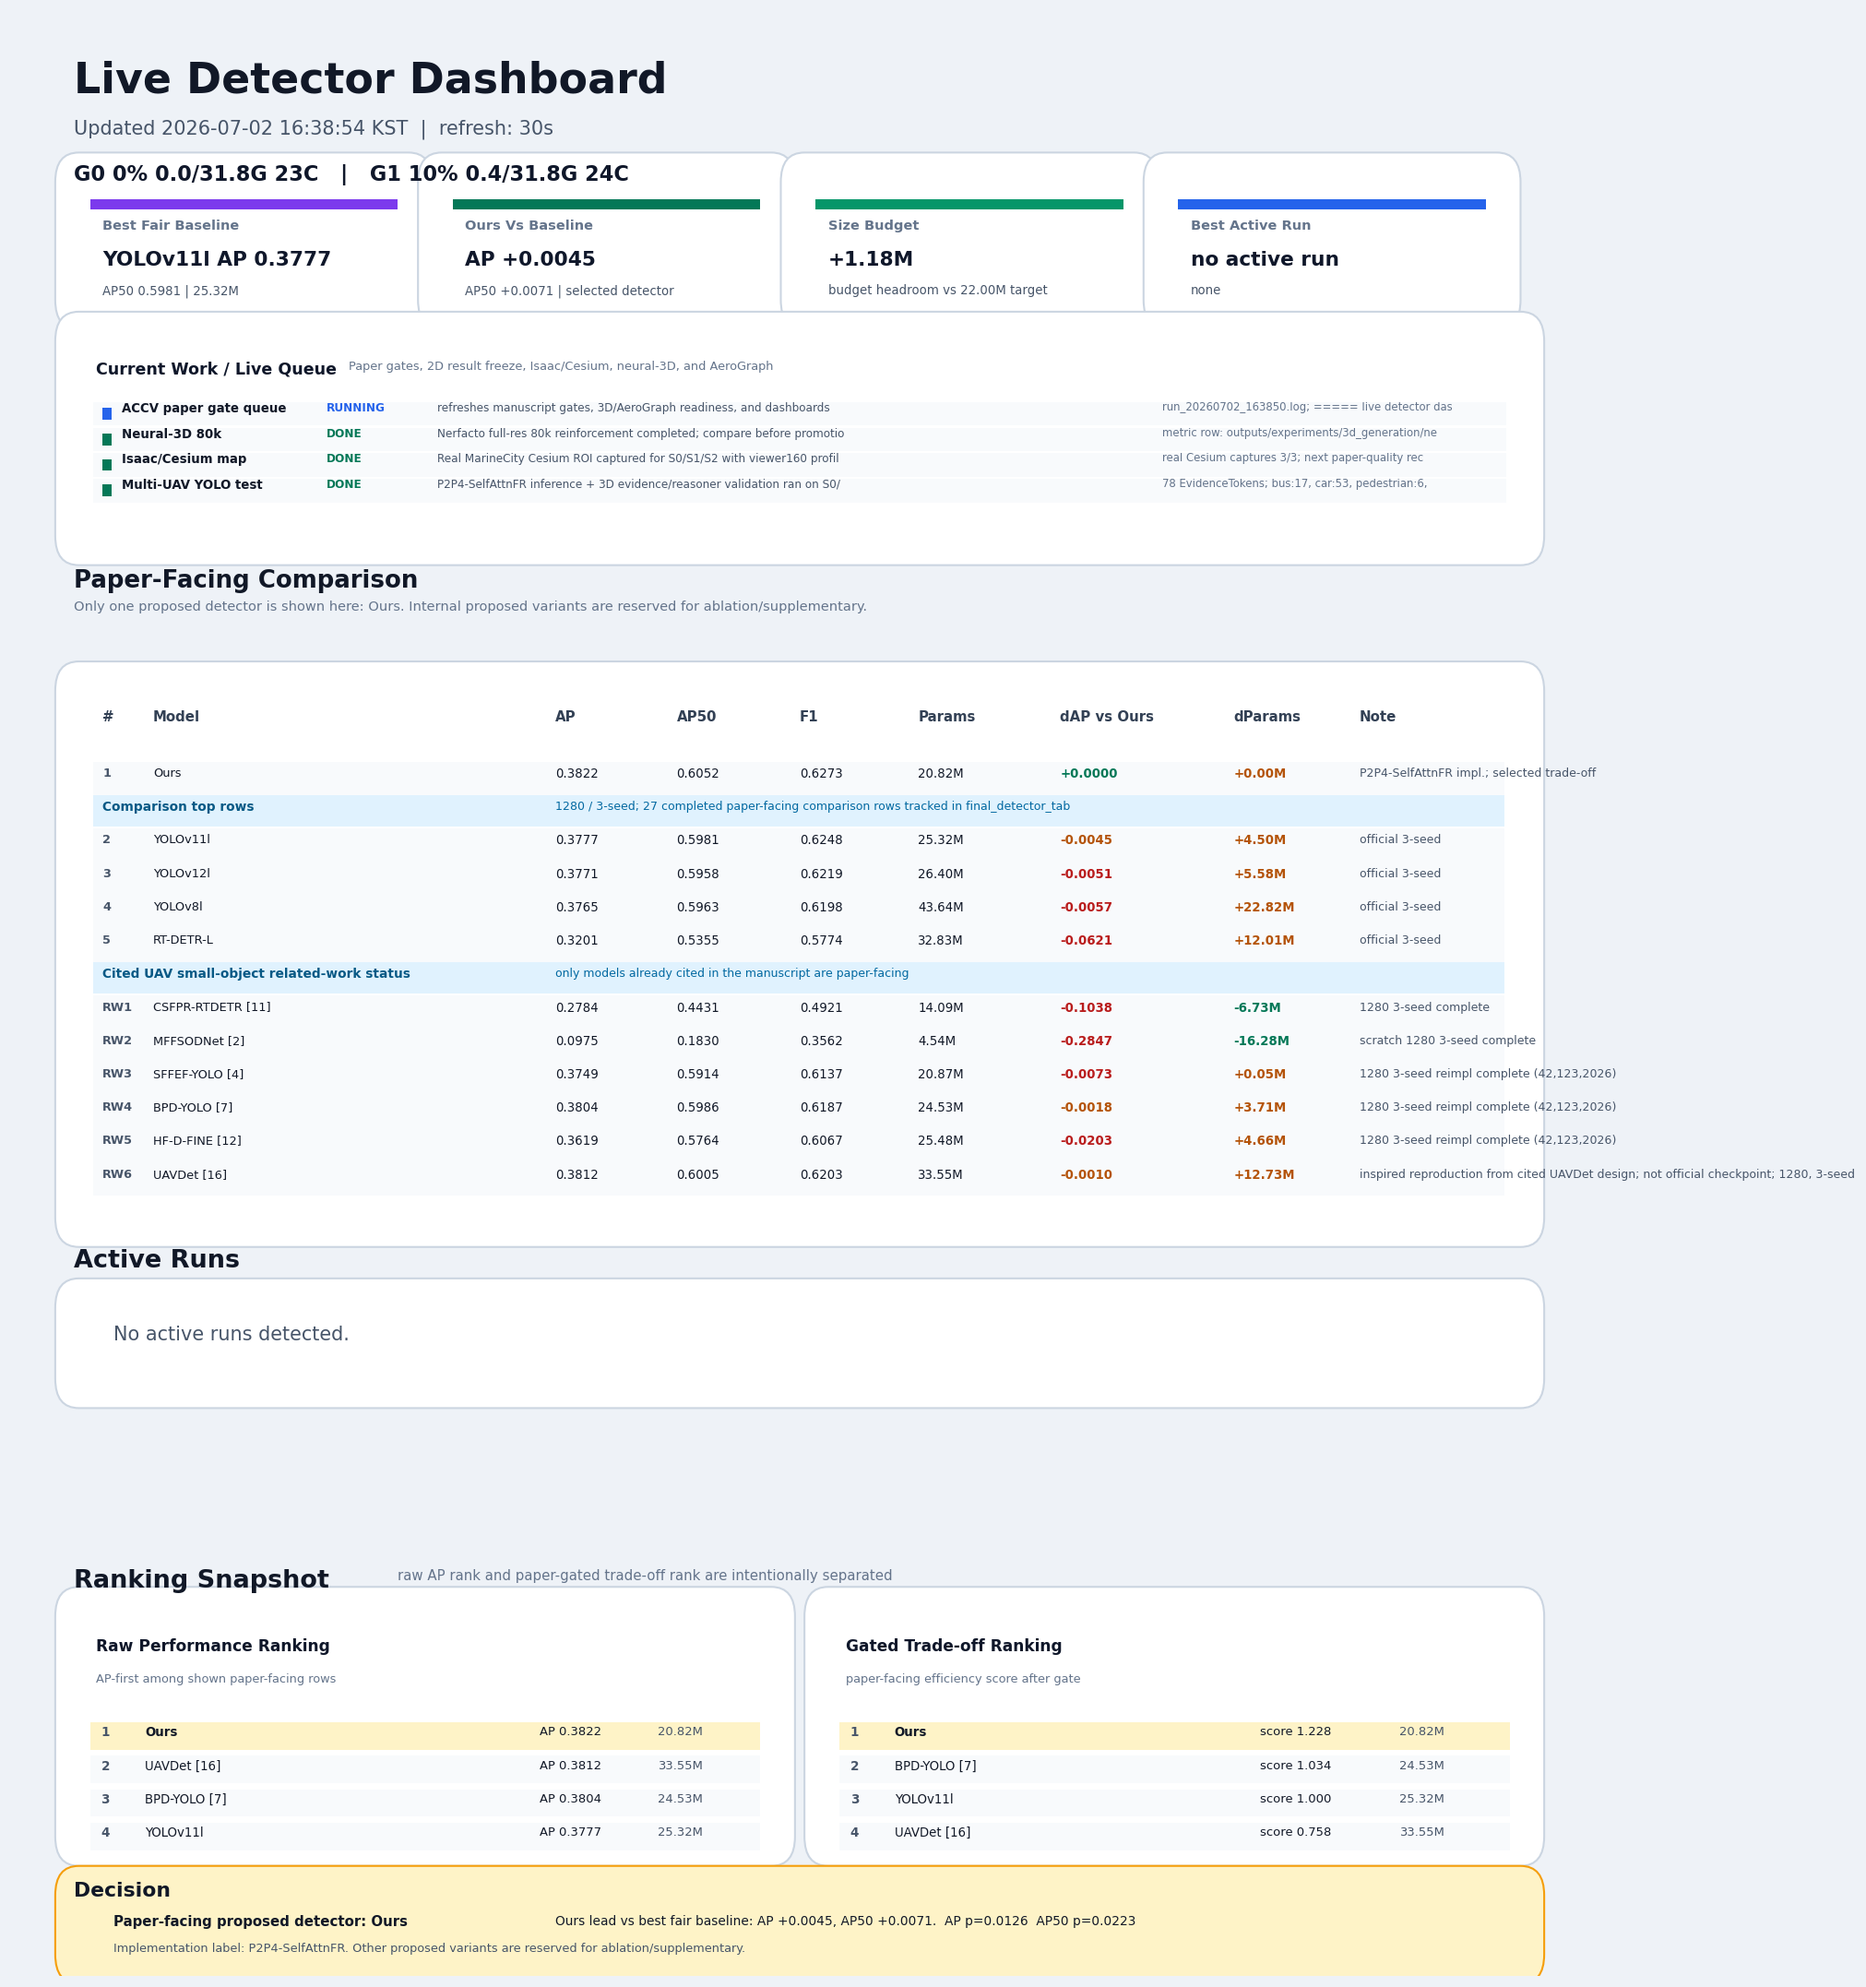
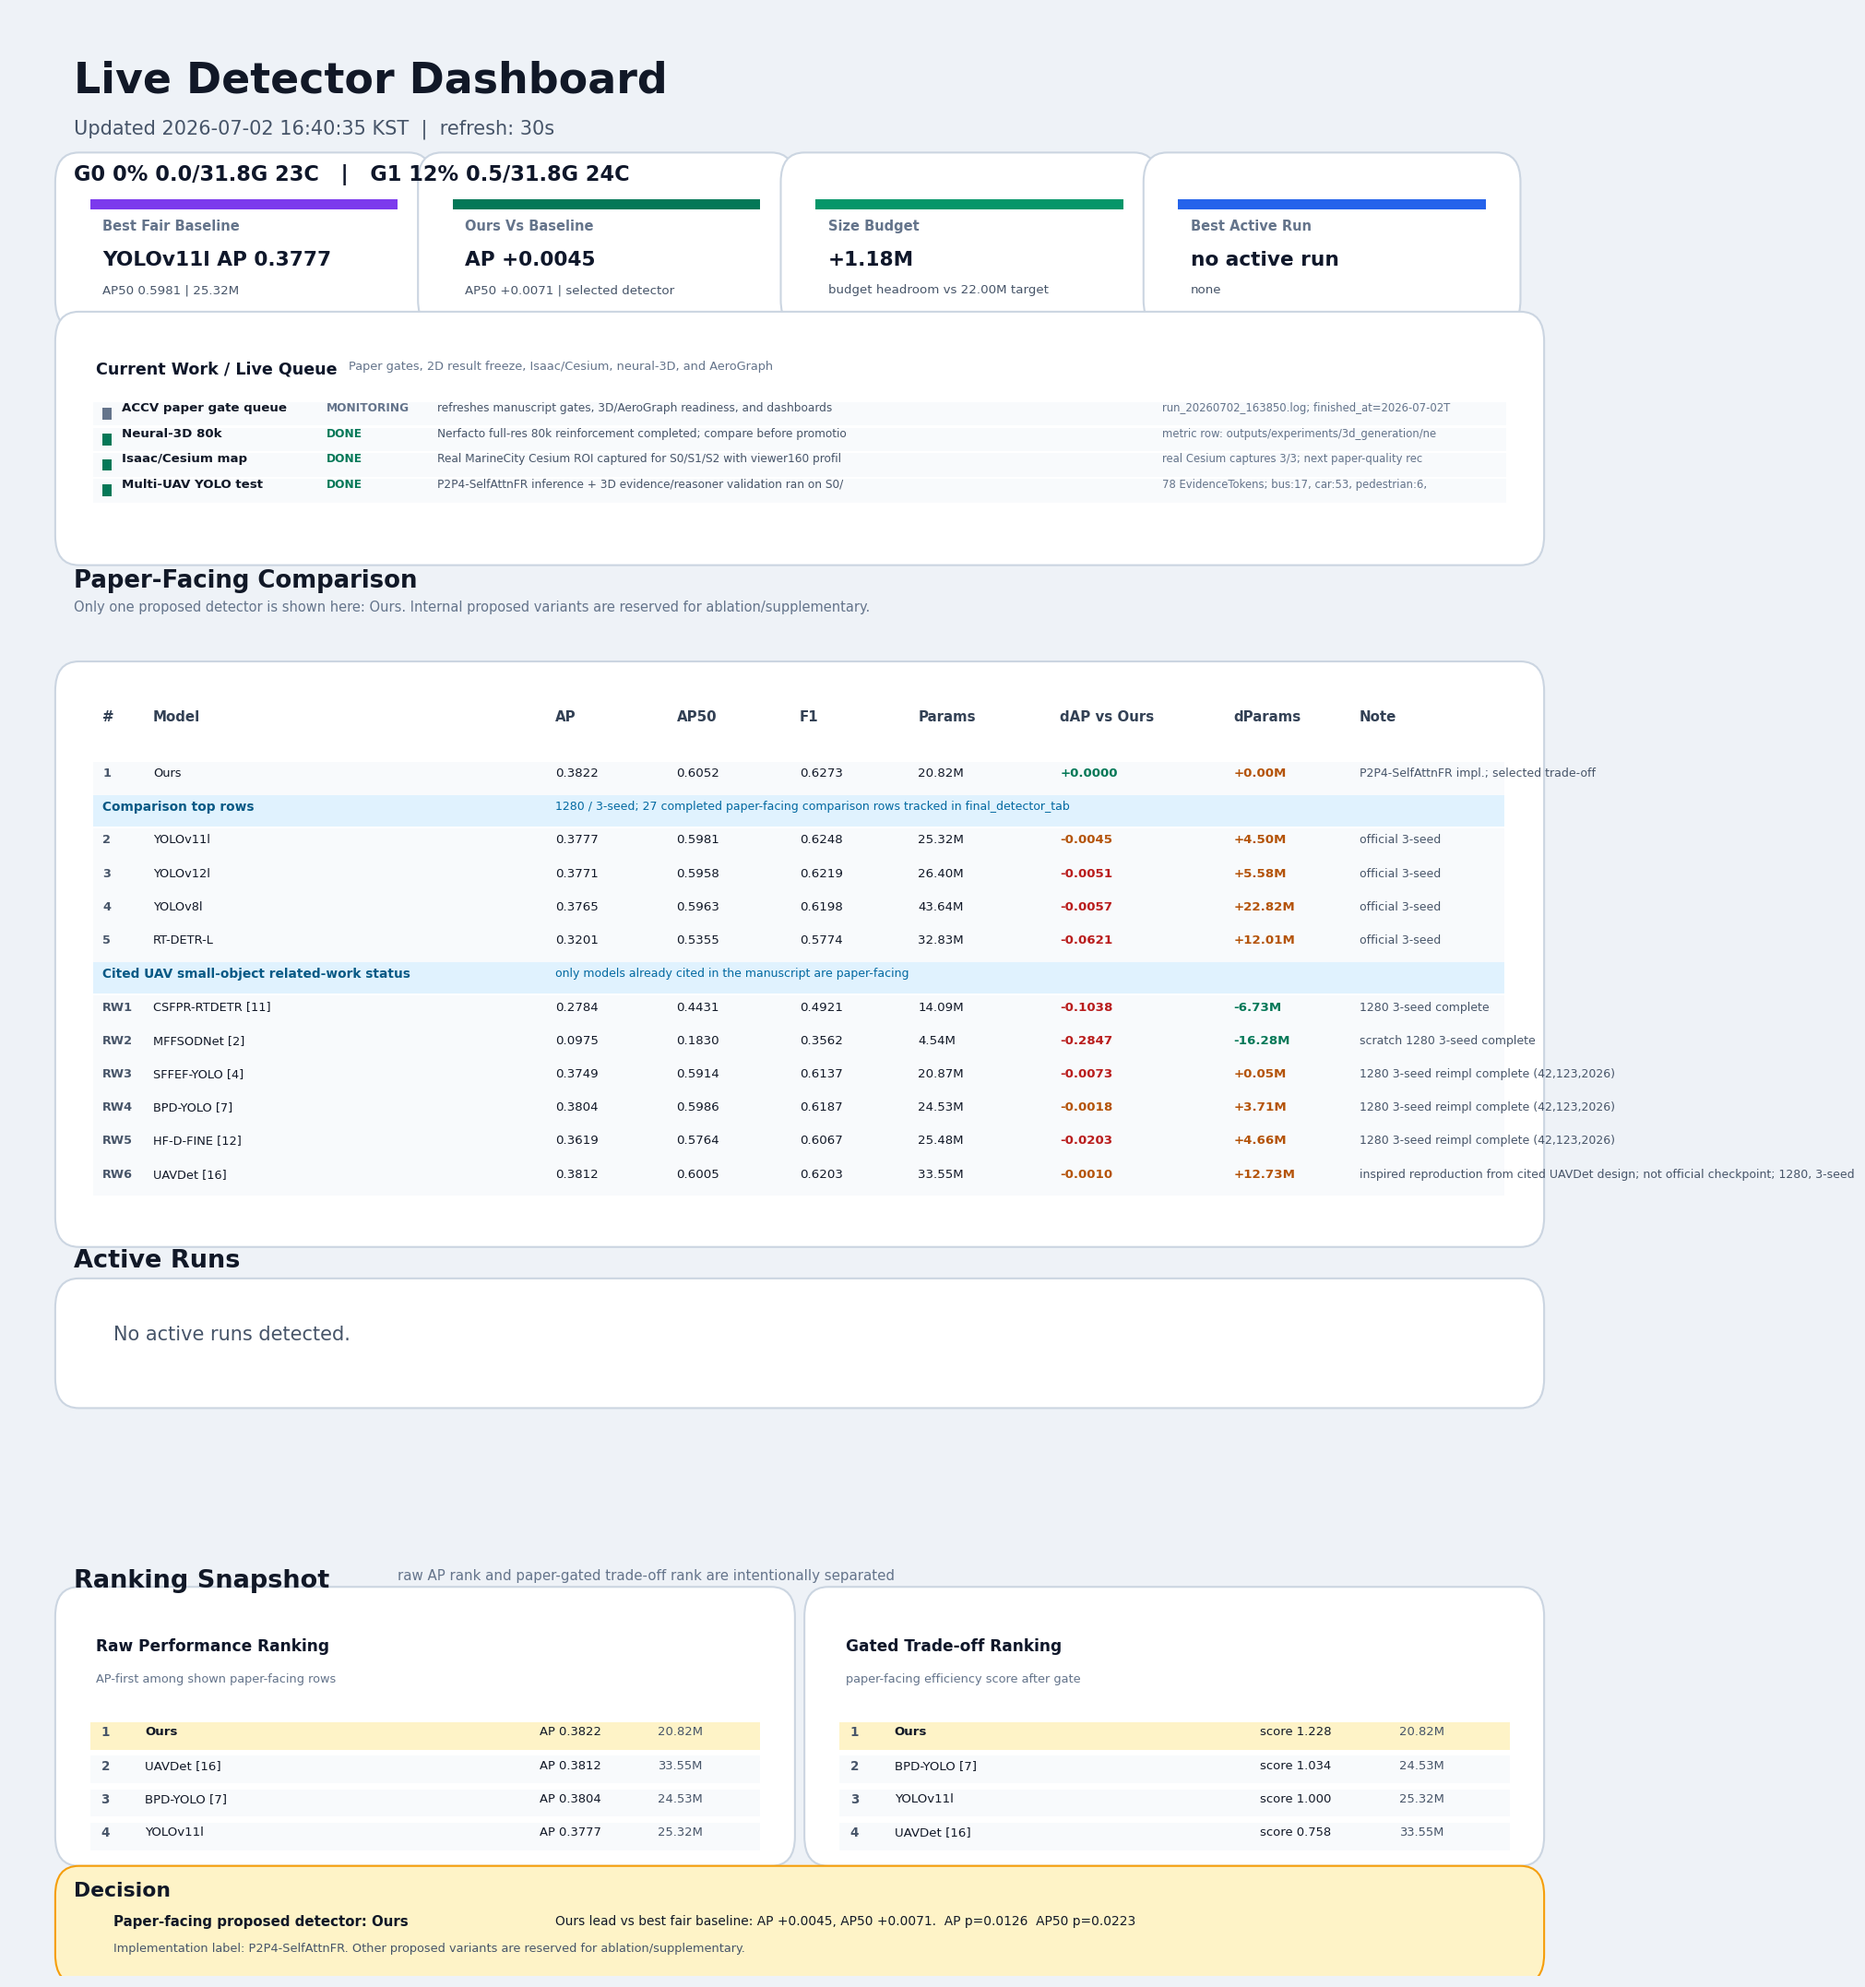
Refresh live readiness reports

diff --git a/outputs/reports/live/current_work_status.md b/outputs/reports/live/current_work_status.md
@@ -1,12 +1,12 @@
 # Current Work Status
 
-Updated: `2026-07-02T16:38:55+09:00`
+Updated: `2026-07-02T16:39:50+09:00`
 
 This file mirrors the active work shown in `training_dashboard.png`. Active work now focuses on the VisDrone detector claim, MarineCity simulation, neural-3D validation metrics, AeroGraph reasoner replication, and paper cleanup.
 
 | Work Item | Status | Detail | Latest Event |
 | --- | --- | --- | --- |
-| ACCV paper gate queue | `running` | refreshes manuscript gates, 3D/AeroGraph readiness, and dashboards | run_20260702_163850.log; ===== current work status ===== |
+| ACCV paper gate queue | `monitoring` | refreshes manuscript gates, 3D/AeroGraph readiness, and dashboards | run_20260702_163850.log; finished_at=2026-07-02T16:38:55+09:00 |
 | Neural-3D 80k | `done` | Nerfacto full-res 80k reinforcement completed; compare before promotion | metric row: outputs/experiments/3d_generation/nerfstudio_native_runs/marinecity_nerfacto_fullres80k_20260629_afternoon_20260629_1608_fullres80k_metric_row.json |
 | Isaac/Cesium map | `done` | Real MarineCity Cesium ROI captured for S0/S1/S2 with viewer160 profile | real Cesium captures 3/3; next paper-quality recapture should reduce tile/backface artifacts |
 | Multi-UAV YOLO test | `done` | P2P4-SelfAttnFR inference + 3D evidence/reasoner validation ran on S0/S1/S2 viewer160 captures | 78 EvidenceTokens; bus:17, car:53, pedestrian:6, van:2; rule-based reasoner 3/3 |

diff --git a/outputs/reports/live/paper_artifact_readiness_check.md b/outputs/reports/live/paper_artifact_readiness_check.md
@@ -1,6 +1,6 @@
 # Paper Artifact Readiness Check
 
-Updated: `2026-07-02 16:36:58 KST`
+Updated: `2026-07-02 16:38:51 KST`
 Status: `paper_artifact_audit_needs_attention`
 
 ## Summary
@@ -12,7 +12,7 @@ Status: `paper_artifact_audit_needs_attention`
 - AeroGraph reviewed-candidate coverage: `49/49`
 - AeroGraph external-provider replication ready: `False`
 - AeroGraph provider benchmark is optional for the current submission because the paper claim is limited to schema/verifier/action-policy validation.
-- AeroGraph table status: `aerograph_reasoner_table_candidate_external_open`
+- AeroGraph table status: `aerograph_reasoner_table_complete`
 - MarineCity qualitative gate: `marinecity_qualitative_gate_main_ready`
 - MarineCity integration gate: `marinecity_system_integration_validation_ready_with_open_final_gates`; fails `0`, warnings `0`, open checks `1`
 - MarineCity 3D completion gate: `marinecity_3d_completion_ready`; metric rows `3`

diff --git a/outputs/reports/live/aerograph_nonmock_readiness_status.md b/outputs/reports/live/aerograph_nonmock_readiness_status.md
@@ -19,7 +19,7 @@
 - Web batch count: `6`
 - Full manual template: `outputs/reports/live/aerograph_prompt_pack/aerograph_manual_response_template_all.jsonl`
 - Paper table manifest: `outputs/reports/live/aerograph_reasoner_table_manifest.json`
-- Paper table status: `aerograph_reasoner_table_candidate_external_pending`
+- Paper table status: `aerograph_reasoner_table_complete`
 
 ## Interpretation
 

diff --git a/outputs/reports/live/external_gate_capabilities.md b/outputs/reports/live/external_gate_capabilities.md
@@ -1,6 +1,6 @@
 # External Gate Capabilities
 
-Updated: `2026-07-02 16:36:58 KST`
+Updated: `2026-07-02 16:38:51 KST`
 Status: `three_d_runner_available_aerograph_provider_missing`
 
 This report checks whether the remaining external gates can be executed from the current shell. Secret values are never printed.

diff --git a/outputs/reports/live/accv_remaining_gates_queue.md b/outputs/reports/live/accv_remaining_gates_queue.md
@@ -1,6 +1,6 @@
 # ACCV Remaining Gates Queue
 
-Updated: `2026-07-02T16:37:03+09:00`
+Updated: `2026-07-02T16:38:55+09:00`
 
 This queue separates paper-ready evidence from optional gates. Optional rows should not be promoted into a main claim unless their evidence column proves completion.
 

diff --git a/outputs/reports/live/marinecity_3d_completion_readiness.md b/outputs/reports/live/marinecity_3d_completion_readiness.md
@@ -1,6 +1,6 @@
 # MarineCity 3D Completion Readiness
 
-Updated: `2026-07-02 16:36:58 KST`
+Updated: `2026-07-02 16:38:51 KST`
 Status: `marinecity_3d_completion_ready`
 
 ## Capture Source

diff --git a/outputs/reports/live/latex_patch_integrity_check.md b/outputs/reports/live/latex_patch_integrity_check.md
@@ -1,6 +1,6 @@
 # LaTeX Patch Integrity Check
 
-Updated: `2026-07-02 16:36:58 KST`
+Updated: `2026-07-02 16:38:50 KST`
 Status: `latex_patch_integrity_ok`
 
 ## Summary

diff --git a/outputs/reports/live/accv_workflow_status_snapshot.md b/outputs/reports/live/accv_workflow_status_snapshot.md
@@ -1,6 +1,6 @@
 # ACCV Workflow Status Snapshot
 
-Updated: `2026-07-02 16:37:03 KST`
+Updated: `2026-07-02 16:38:55 KST`
 
 ## Detector Status
 
